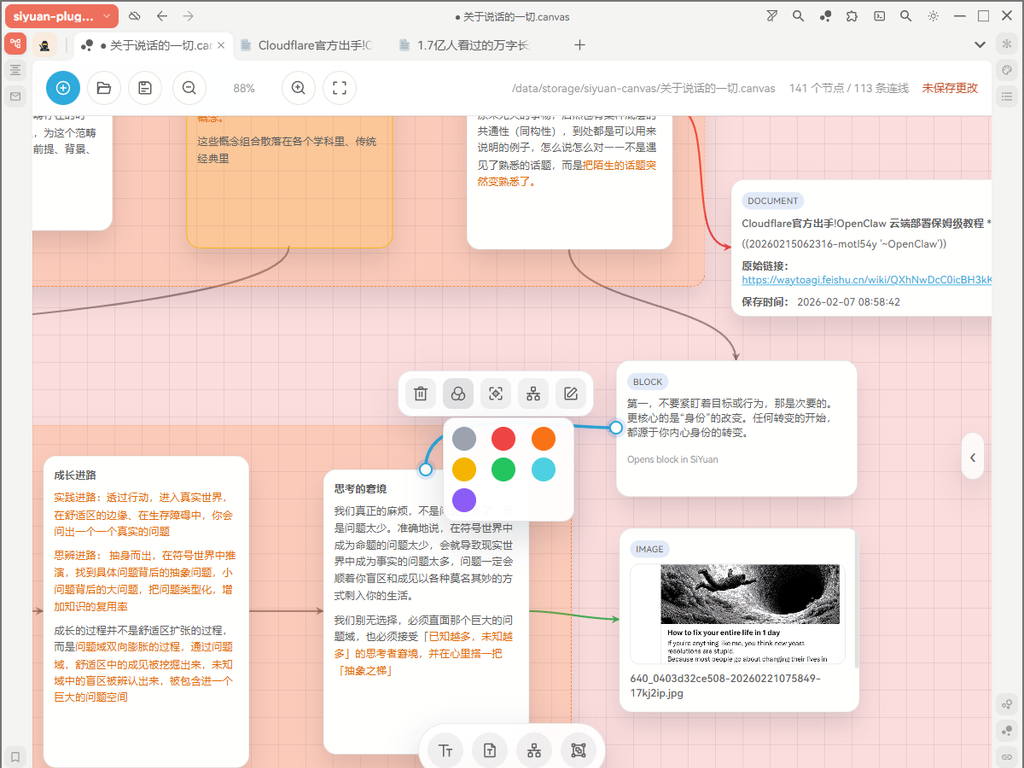
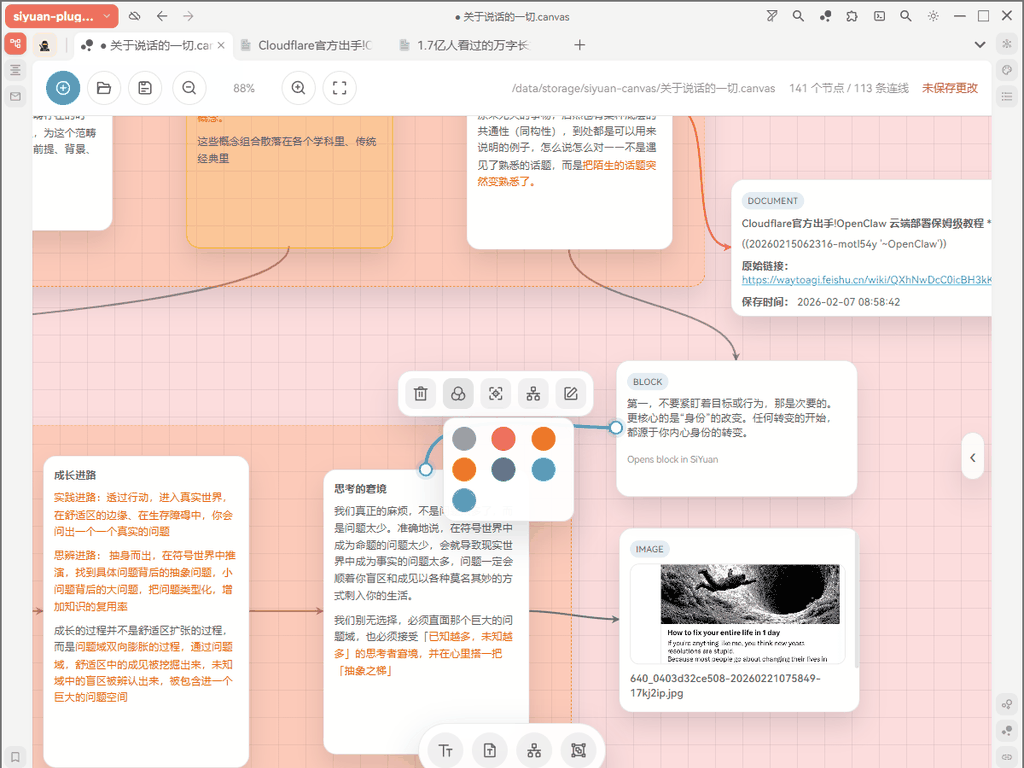
fix: 优化打包规则和添加卸载清理
- 优化 i18n 打包规则，不再打包 .ts 源代码文件
- 添加卸载时自动删除配置文件的逻辑
- 压缩 preview.png 从 398 KB 到 147 KB

发布前检查优化，准备发布到 Bazaar

Changed region(s): [[0.4375, 0.5625, 0.5625, 0.6875], [0.0312, 0.0938, 0.0938, 0.1562], [0.5625, 0.5312, 0.5938, 0.5625]]

diff --git a/src/index.ts b/src/index.ts
@@ -113,7 +113,11 @@ export default class SiyuanCanvasPlugin extends Plugin {
     showMessage(this.t("pluginLoaded"), 2500, "info")
   }
 
-  onunload() {}
+  onunload() {
+    this.removeData(STORAGE_KEY).catch(e => {
+      showMessage(`卸载 ${this.name} 时删除数据失败: ${e}`, 2500, "error")
+    })
+  }
 
   override openSetting(): void {
     this.openCanvasSettings()

diff --git a/vite.config.ts b/vite.config.ts
@@ -81,7 +81,7 @@ export default defineConfig(({
             dest: "./",
           },
           {
-            src: "./src/i18n/**",
+            src: "./src/i18n/*.json",
             dest: "./i18n/",
           },
         ],